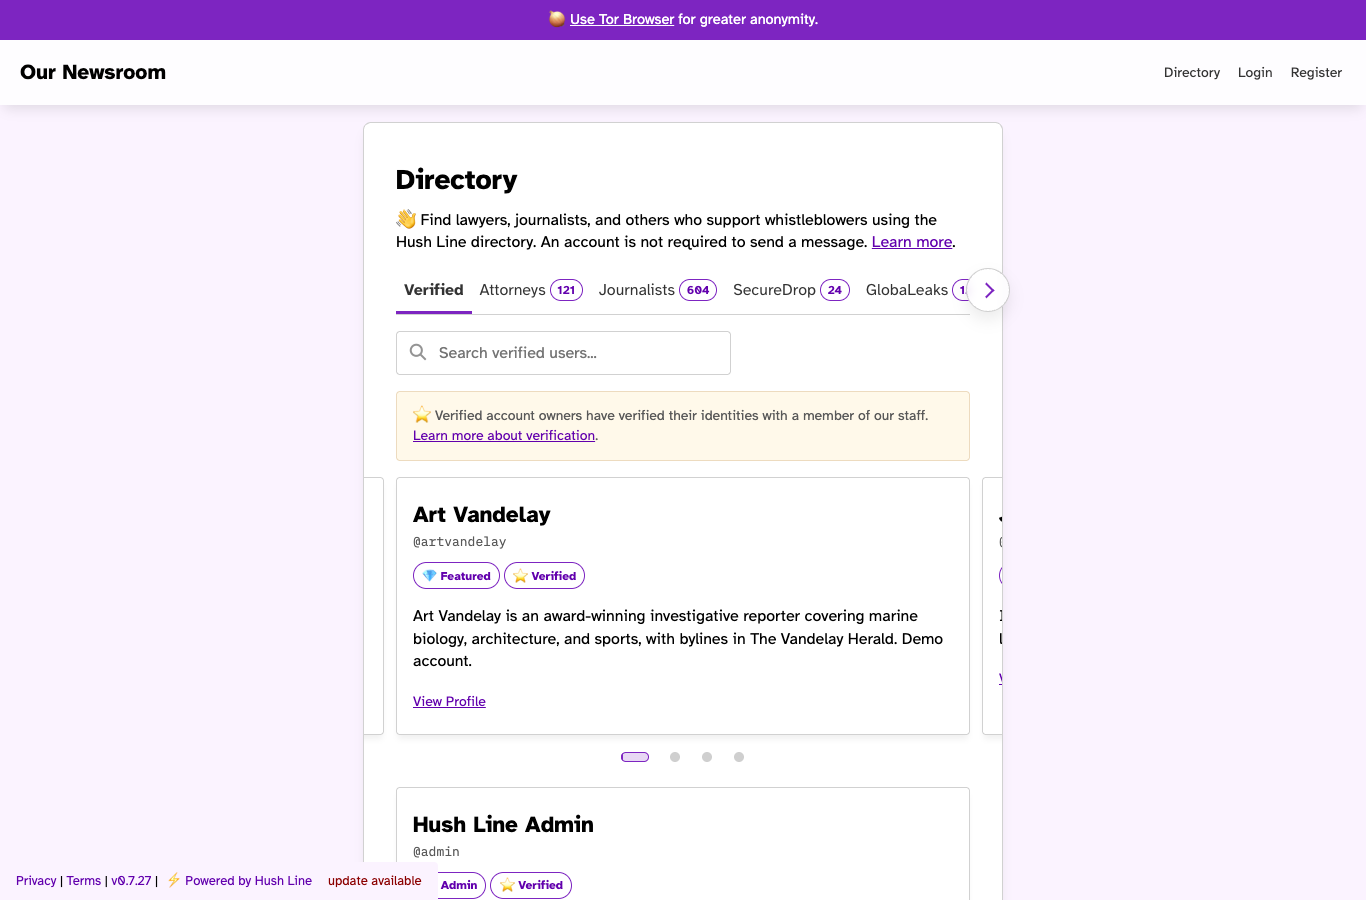
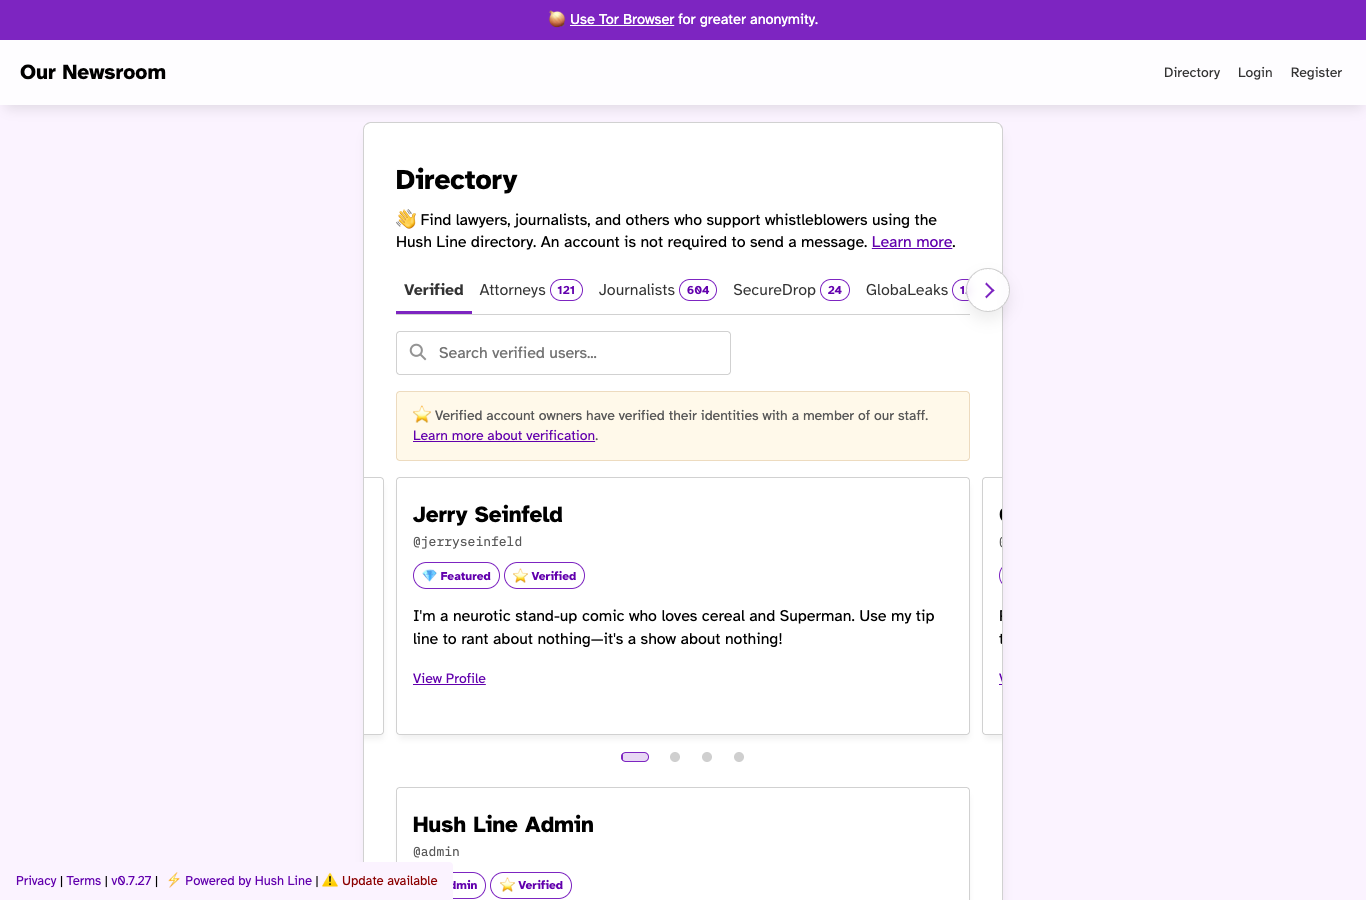
Place the warning update link inline with footer separators

Changed region(s): [[0.3075, 0.6533, 0.7072, 0.8089], [0.3075, 0.56, 0.4305, 0.6222], [0.2152, 0.9644, 0.3382, 0.9956]]

diff --git a/hushline/templates/base.html b/hushline/templates/base.html
@@ -365,14 +365,15 @@
             | 
             <a href="https://hushline.app" class="powered-by">⚡ Powered by Hush Line</a>
           {% endif %}
+          {% if hushline_update_version %}
+            <span class="update-notice">
+              |
+              <a href="{{ hushline_release_page }}" target="_blank" rel="noopener noreferrer"
+                >⚠ Update available</a
+              >
+            </span>
+          {% endif %}
         </p>
-        {% if hushline_update_version %}
-          <p class="update-notice">
-            <a href="{{ hushline_release_page }}" target="_blank" rel="noopener noreferrer"
-              >update available</a
-            >
-          </p>
-        {% endif %}
       </footer>
     {% endblock %}
 

diff --git a/assets/scss/style.scss b/assets/scss/style.scss
@@ -2821,15 +2821,13 @@ footer:has(a.powered-by) {
   height: 38px;
 }
 
-footer:has(p.update-notice) {
+footer:has(span.update-notice) {
   height: auto;
   min-height: 38px;
   max-width: 100%;
   box-sizing: border-box;
   padding-top: 0.5rem;
   padding-bottom: 0.5rem;
-  flex-wrap: wrap;
-  gap: 0.5rem 1rem;
 }
 
 footer p {
@@ -2843,6 +2841,10 @@ footer a {
 footer .powered-by {
   margin-left: 0.25rem;
   font-size: var(--font-size-smaller);
+}
+
+footer .update-notice {
+  white-space: nowrap;
 }
 
 footer .update-notice a {

diff --git a/tests/test_update_notice_footer.py b/tests/test_update_notice_footer.py
@@ -1,4 +1,5 @@
 import pytest
+from bs4 import BeautifulSoup
 from flask import Flask, url_for
 from flask.testing import FlaskClient
 from pytest_mock import MockFixture
@@ -18,8 +19,9 @@ def test_footer_shows_update_for_default_and_custom_brand_without_broadening_csp
     )
     response = client.get(url_for("directory"), follow_redirects=True)
     assert response.status_code == 200
-    assert ">update available</a" in response.text
-    assert "0.7.28" not in response.text
+    notice = BeautifulSoup(response.text, "html.parser").select_one("footer .update-notice")
+    assert notice is not None
+    assert notice.get_text(" ", strip=True) == "| ⚠ Update available"
     assert f'href="{RELEASE_PAGE}"' in response.text
     assert ("Powered by Hush Line" in response.text) == (brand_name != "🤫 Hush Line")
     directives = dict(
@@ -39,5 +41,5 @@ def test_footer_does_not_claim_unknown_release_is_current(
     mocker.patch.object(app.extensions["hushline_release_check"], "newer_than", return_value=None)
     response = client.get(url_for("directory"), follow_redirects=True)
     assert response.status_code == 200
-    assert "update available" not in response.text
+    assert "Update available" not in response.text
     assert "up to date" not in response.text.lower()

diff --git a/docs/USE-CASES.md b/docs/USE-CASES.md
@@ -440,7 +440,7 @@ Single Tenant provisioning and managed updates execute the immutable image from 
 
 Operators of provisioned Single Tenant and DIY instances can see an update notice
 in the footer when their installed version is older than the latest stable release,
-including when they customize the app name. The red **update available** link
+including when they customize the app name. The red **⚠ Update available** link
 opens release notes so they can
 update through their existing deployment method. Background server checks and a
 daily cache keep page rendering independent of GitHub availability. Visitors send

diff --git a/docs/SOFTWARE-UPDATES.md b/docs/SOFTWARE-UPDATES.md
@@ -1,6 +1,6 @@
 # Software update notice
 
-Provisioned and DIY instances show **update available** in the footer when a
+Provisioned and DIY instances show **⚠ Update available** in the footer when a
 newer stable Hush Line release is known. The notice appears regardless of the app
 name and links to the official release notes. The installed version and existing
 branding remain visible. The notice does not install software or change settings.
